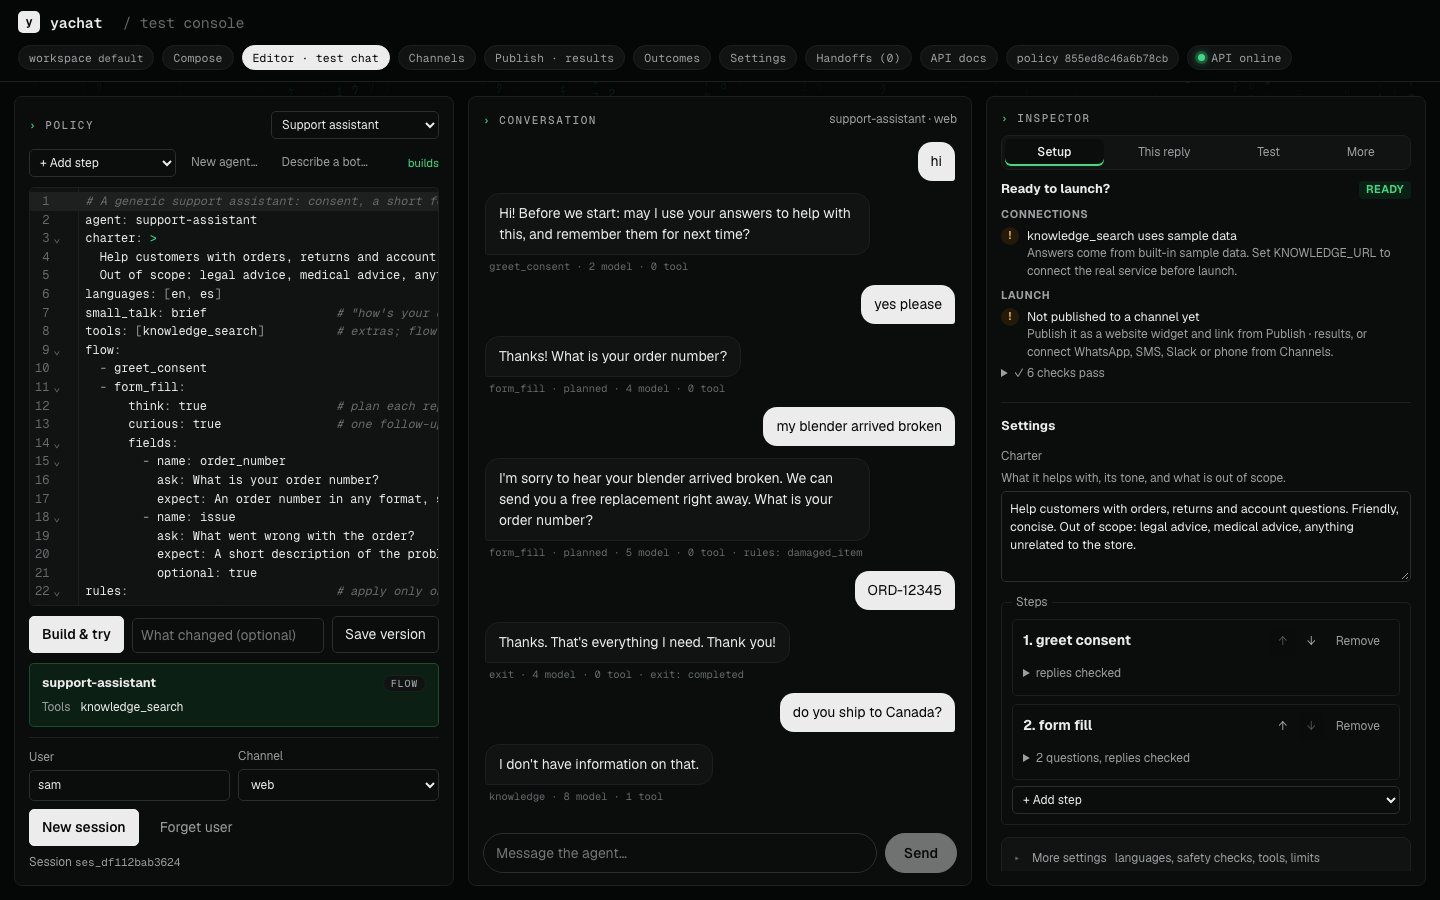
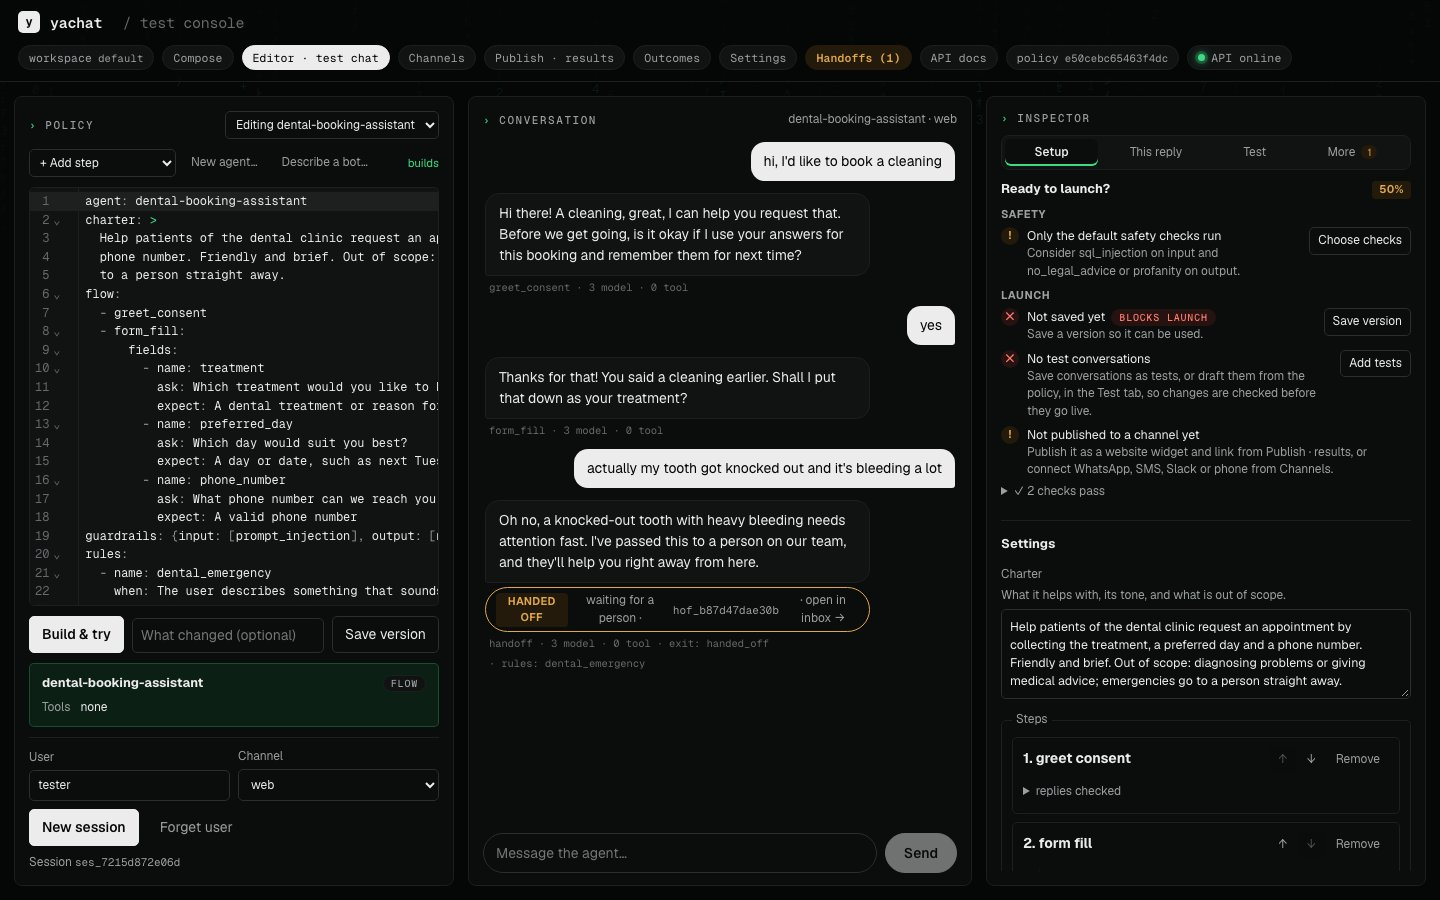
README leads with making a bot from plain English; where stronger models help
- README: a benefit tagline, a link row, an animation of the console
  (describe a dental booking bot, read it back in plain words, chat; the
  emergency rule hands the chat to a person). New sections: "Make a bot
  from plain English" (demo, console, Claude Code), "How it works" (a
  diagram of the three stages), "Where a stronger model helps" (drafting,
  judging, high_stakes steps, verifying plans, eval judging, each one
  setting), and "How yachat compares" with good fit / not a fit. Shaped
  after a review of the Parlant, Rasa, LangGraph, Botpress, CrewAI and
  Pydantic AI READMEs.
- New screenshots from the current console and demo, taken with a strong
  drafting model: compose.jpg, console.jpg (the drafted bot in a chat),
  demo-make.jpg (YAML plus what to connect), make-a-bot.gif.
- The landing page uses the same tagline and animation; FEATURES shows
  Compose and the chat.
- Fix: the plain-words summary lowers a rule's leading capital
  mid-sentence ("When the user ..."); acronyms stay.

diff --git a/site/index.html b/site/index.html
@@ -3,11 +3,11 @@
 <head>
 <meta charset="utf-8">
 <meta name="viewport" content="width=device-width, initial-scale=1, viewport-fit=cover">
-<title>yachat: chatbots you write in YAML</title>
+<title>yachat: customer-facing chatbots that follow your rules</title>
 <meta name="description" content="Open-source chatbots you write in YAML and extend in Python. One short file per bot; limits, guardrails and handoff enforced in code.">
 <meta property="og:title" content="yachat: chatbots you write in YAML">
 <meta property="og:description" content="One short YAML file per bot. Describe yours and get the file, then run it yourself.">
-<meta property="og:image" content="assets/console.jpg">
+<meta property="og:image" content="assets/compose.jpg">
 <style>
   :root { --bg: #ffffff; --fg: #1f1f1d; --muted: #6e6e69; --line: #e6e5e0; --soft: #f4f4f1; --accent: #2f6f4f; color-scheme: light }
   @media (prefers-color-scheme: dark) {
@@ -61,9 +61,9 @@
   </nav>
 
   <section class="hero">
-    <h1>Chatbots you write in YAML and extend in Python.</h1>
-    <p class="lead">One short file per bot: what it's for, what it asks, its rules and when it hands over to a person. One
-      open-source runtime runs them all and enforces limits, guardrails and tool access in code, not in a prompt.</p>
+    <h1>Customer-facing chatbots that follow your rules.</h1>
+    <p class="lead">Describe a bot in plain English, or write its YAML yourself: what it's for, what it asks, its rules and when
+      it hands over to a person. One open-source runtime enforces all of it in code, not in a prompt.</p>
     <div class="ctas">
       <a class="btn solid" href="https://yachat-demo.fly.dev">Make a bot from a description</a>
       <a class="btn" href="https://github.com/pnrajan/yachat/fork">Fork on GitHub</a>
@@ -81,7 +81,7 @@
         - {name: issue, ask: "What went wrong?", expect: "A short description", optional: true}
 <span class="k">guardrails:</span> {input: [prompt_injection], output: [pii, no_legal_advice]}
 <span class="k">handoff:</span> {when: [user_request, max_reasks]}</pre>
-  <img class="shot" src="assets/console.jpg" alt="The yachat console: the policy, a test chat, and why each reply was chosen" width="1440" height="900" loading="lazy">
+  <img class="shot" src="assets/make-a-bot.gif" alt="A dental booking bot described in two sentences, read back in plain words, then a test chat where an emergency is handed to a person" width="960" height="600" loading="lazy">
 
   <section class="points">
     <div><h2>Code decides, the model phrases</h2><p>Re-asks, digressions, exits and handoff are counted by the runtime, never left to the model.</p></div>

diff --git a/tests/test_versions.py b/tests/test_versions.py
@@ -198,3 +198,17 @@ def test_the_plain_summary_lists_rules_and_small_talk() -> None:
     lines = plain_summary(build((ROOT / "examples" / "support_assistant.yaml").read_text()))
     assert "When the customer says an item arrived damaged or broken: say a free replacement can be sent" in " ".join(lines)
     assert any("small talk" in x for x in lines) and any(x.startswith("Passes the chat to you when") for x in lines)
+
+
+def test_a_rule_reads_as_one_sentence_in_the_summary() -> None:
+    """A drafted `when` often starts with a capital ("The user ..."); mid-sentence it is lowered. Acronyms stay."""
+    from yachat.policy.compiler import build
+    from yachat.policy.summary import plain_summary
+
+    rules = [
+        {"name": "urgent", "when": "The user describes an emergency.", "then": "Hand over to a person."},
+        {"name": "vip", "when": "VIP customers ask for a refund", "then": "Offer a person"},
+    ]
+    lines = plain_summary(build(edited(SUPPORT, rules=rules)))
+    assert "When the user describes an emergency: Hand over to a person." in lines
+    assert "When VIP customers ask for a refund: Offer a person." in lines

diff --git a/yachat/policy/summary.py b/yachat/policy/summary.py
@@ -69,7 +69,10 @@ def plain_summary(policy: CompiledPolicy) -> list[str]:
         items = [_words(m.name) + (" (only with permission)" if m.sensitive else "") for m in policy.memory]
         out.append("Remembers between chats: " + ", ".join(items) + ".")
     for r in [*policy.rules, *(r for s in policy.steps for r in s.rules)]:
-        out.append(f"When {r.when.rstrip('.')}: {r.then.rstrip('.')}.")
+        when = r.when.rstrip(".")
+        if when[:1].isupper() and when[1:2].islower():  # "The user ..." mid-sentence; "VIP ..." and "I ..." stay
+            when = when[0].lower() + when[1:]
+        out.append(f"When {when}: {r.then.rstrip('.')}.")
     if policy.small_talk != "off":
         out.append("Chats briefly when the customer makes small talk, then gets back to the task.")
     return out

diff --git a/README.md b/README.md
@@ -2,28 +2,54 @@
 
 # yachat
 
-**Chatbots you write in YAML and extend in Python.**
+**Customer-facing chatbots that follow your rules.**<br>
+Describe a bot in plain English or write it in YAML; one open-source runtime enforces its steps, limits and handoff in
+code, not in a prompt.
 
 [![CI](https://github.com/pnrajan/yachat/actions/workflows/ci.yml/badge.svg)](https://github.com/pnrajan/yachat/actions/workflows/ci.yml)
 [![Python 3.12+](https://img.shields.io/badge/python-3.12%2B-3776ab?logo=python&logoColor=white)](pyproject.toml)
 [![License: Apache-2.0](https://img.shields.io/badge/license-Apache--2.0-blue)](LICENSE)
-[![Status: alpha](https://img.shields.io/badge/status-alpha-orange)](CHANGELOG.md)
+[![Status: alpha](https://img.shields.io/badge/status-alpha-orange)](#status)
 
-**[Try the demo](https://yachat-demo.fly.dev)**: describe a bot and get its YAML, or chat with a ready-made one. No sign-up.
+**[Try the demo](https://yachat-demo.fly.dev)** · [Quickstart](#quickstart) · [Docs](#docs) · [Examples](examples) ·
+[How it compares](#how-yachat-compares)
 
-<img src="docs/assets/console.jpg" alt="The yachat test console: a policy on the left, a test chat in the middle, and why each reply was chosen on the right" width="900">
+<img src="docs/assets/make-a-bot.gif" alt="In the yachat console: a dental clinic's booking bot is described in two sentences, yachat writes it and reads it back in plain words, then a test chat where a patient mentions a knocked-out tooth and the bot hands the chat to a person" width="900">
 
 </div>
 
-yachat runs chatbots that have a job to finish: support triage, bookings, intake forms, surveys. You describe each bot
-in one short YAML file. One runtime runs them all, and enforces limits, guardrails and tool access in code, not in a
-prompt.
+yachat is for bots that have a job to finish: support triage, bookings, intake forms, surveys. Each bot is one short
+YAML file that says what it is for, what it asks, which tools it may use and when it must hand over to a person. You
+can write that file yourself, or describe the bot in a sentence and let a model write it; either way the runtime, not
+the model, decides what happens next.
 
-- **One file per bot.** What it is for, what it asks, which tools it may use, when it hands over to a person.
-- **Code decides, the model phrases.** Re-asks, digressions and exits are counted by the runtime.
+- **Plain English in, a reviewable file out.** Describe the bot, read back what it will do in plain words, ask for
+  changes the same way. The YAML is there when you want it.
+- **Code decides, the model phrases.** Steps validate answers; re-asks, digressions, budgets and exits are counted by
+  the runtime. A model never decides to end a conversation.
+- **Safe by default.** Every tool call goes through one gateway (allow list, timeouts, circuit breaker); input and
+  output guardrails; memory only for listed items, with consent.
 - **Extend in Python.** A tool, step, guardrail or channel is one decorated function or class, or an MCP server.
-- **Any model, any channel.** Anthropic or anything litellm reaches; web, WhatsApp, SMS, Slack and phone.
-- **Tested from the policy.** Test sets are generated from the YAML, and a stronger model reviews trial chats.
+- **Any model, any channel.** Anthropic or anything litellm reaches (OpenAI, Gemini, Bedrock, Ollama); web widget,
+  WhatsApp, SMS, Slack and phone.
+- **Tested from the policy.** Test sets are generated from the YAML, and a stronger model reviews trial chats and
+  proposes fixes.
+
+## Make a bot from plain English
+
+**In the [demo](https://yachat-demo.fly.dev)**, no install: describe a bot and get its YAML, checked by the build.
+Under it, what the bot needs connecting before real people use it, with options for each: the services its YAML
+uses, and the outside systems your description implies (a booking calendar, a CRM, an SMS gateway). Then fork the
+repo and run it.
+
+**In the console** (after the [Quickstart](#quickstart)), open **Compose**, describe the bot, and press **Create my
+bot**. It reads the bot back in plain words; ask for changes the same way ("also ask for their email", "add Spanish"),
+press **Try it** to chat, and **Save** when it's right.
+
+**From Claude Code**, the [yachat plugin](plugins/yachat) builds, tries and saves bots on your server when you ask in
+plain words. See [Use with Claude](docs/FEATURES.md#use-with-claude).
+
+<p align="center"><img src="docs/assets/demo-make.jpg" alt="The demo: a dental booking bot described in one sentence, its YAML with Copy and Download, and what it needs connecting: a booking calendar (Open Dental, Dentrix, Calendly), a model key, somewhere for handed-over chats, and where people talk to it" width="560"></p>
 
 ## Quickstart
 
@@ -33,11 +59,11 @@ Needs Python 3.12+, [uv](https://docs.astral.sh/uv/), Node 20+ and one model key
 git clone https://github.com/pnrajan/yachat && cd yachat
 cp .env.example .env        # set YACHAT_LLM and its *_API_KEY
 uv sync --all-extras
-scripts/try.sh              # console with a sample bot, everything in memory
+scripts/try.sh              # the console with a sample bot, everything in memory
 ```
 
-In the console, pick **Support assistant**, press **Build & try**, then **New session**, and chat. Or open **Compose**
-and describe the bot you want in plain words.
+Open **Compose** and describe a bot, or pick **Support assistant**, press **Build & try**, then **New session**, and
+chat. The **Inspector** shows why each reply was chosen.
 
 ## Your first bot
 
@@ -70,9 +96,23 @@ uv run yachat build my_bot.yaml   # validate and compile; errors name the YAML p
 
 To chat with it, paste it into the console's editor and press **Build & try**, or send it to the API with
 `POST /v1/agents` ([walkthrough](docs/DEVELOPER_GUIDE.md#one-conversation-end-to-end)).
-
-[The policy language](docs/POLICY_LANGUAGE.md) lists every key. [Examples](examples) has bots for bookings, surveys,
+[The policy language](docs/POLICY_LANGUAGE.md) lists every key; [examples](examples) has bots for bookings, surveys,
 hiring and data questions.
+
+## How it works
+
+Every message goes through three stages. The model reads and phrases; the decisions in between are code.
+
+```mermaid
+flowchart LR
+  U[User message] --> A["Understand<br>language, intent, input guardrails"]
+  A --> B["Decide<br>the policy's current step, rules,<br>counters, tool gateway"]
+  B --> C["Respond<br>phrase the reply, check it,<br>output guardrails, channel limits"]
+  C --> R[Reply]
+```
+
+Each conversation is pinned to the compiled policy it started on, so a change never alters a chat in progress.
+[Architecture](docs/ARCHITECTURE.md) has the detail.
 
 ## Add a tool
 
@@ -96,7 +136,38 @@ uv run yachat evals generate my_bot.yaml           # a test set from the policy,
 uv run yachat evals check evals/support_assistant  # the checks every conversation must pass
 ```
 
-In the console, **Test → Judge** has a stronger model (`YACHAT_MODEL_CRITIC`) review a chat and propose fixes.
+In the console, **Test → Judge** has a stronger model review a chat and propose fixes to the policy or the code.
+
+## Where a stronger model helps
+
+yachat runs well on a small, cheap model for everyday turns. A stronger model pays off in a few places, and each is
+one setting:
+
+| Job | Why a stronger model helps | Setting |
+|---|---|---|
+| Writing a bot from English | Cleaner YAML on the first try, fewer build repairs, sharper suggestions for what to connect | `YACHAT_MODEL_GENERATE` |
+| Reviewing trial chats | Spots what went wrong on which turn and proposes policy and code fixes | `YACHAT_MODEL_CRITIC` |
+| Hard or risky steps | A step or rule marked `high_stakes: true` is written with the large model and always checked | the policy |
+| Checking plans before replying | Steps with `think: true` plan first; a separate model can check the plan | `YACHAT_MODEL_VERIFY` |
+| Judging test results | Scores scope and rule-following in evals | `EVALS_JUDGE_MODEL` |
+
+Classification and routine replies stay on `YACHAT_MODEL_CLASSIFY`. [Model routing and cost](docs/REFERENCE.md) has
+the detail.
+
+## How yachat compares
+
+| | **yachat** | **Parlant** | **Rasa** | **LangGraph** | **Botpress** |
+|---|---|---|---|---|---|
+| You write | One YAML file per bot, or plain English | Python guidelines and journeys | YAML flows and Python actions | Python graph code | Visual flows |
+| Who decides the next step | Code, from the policy | The model, steered by matched guidelines | Code flows | Your code | Flows plus model nodes |
+| Limits, guardrails, handoff | Built in, counted in code | Built in | Built in | You build them | Platform features |
+| Open source | Apache-2.0 | Apache-2.0 | Pro is commercial; open source is in maintenance | MIT | Hosted; SDK is MIT |
+| Maturity | Alpha | Active | Mature | Mature | Mature |
+
+**A good fit** when a bot has a job to finish (a form, a booking, triage, a survey), its behaviour should live in a
+file people can review, and you want many bots on one self-hosted runtime. **Not a fit** for a free-form assistant,
+multi-agent research workflows, or if you need stable APIs today. [How yachat compares](docs/COMPARISON.md) has the
+detail and sources.
 
 ## Docs
 
@@ -104,17 +175,18 @@ In the console, **Test → Judge** has a stronger model (`YACHAT_MODEL_CRITIC`) 
 |---|---|
 | write and tune a bot | [Writing an agent](docs/WRITING_AN_AGENT.md) |
 | look up a policy key | [The policy language](docs/POLICY_LANGUAGE.md) |
-| use the console, channels, memory, handoff, documents | [Features](docs/FEATURES.md) |
+| use the console, channels, memory, handoff, documents, Claude | [Features](docs/FEATURES.md) |
 | add a tool, step, guardrail or channel | [Adding a capability](docs/ADDING_A_CAPABILITY.md) |
 | test and measure quality | [Evals](docs/EVALS.md) |
 | look up the CLI, API, settings, deployment | [Reference](docs/REFERENCE.md) |
-| compare with Rasa, Parlant, LangGraph, Botpress | [Comparison](docs/COMPARISON.md) |
+| understand the runtime | [Architecture](docs/ARCHITECTURE.md) |
 
 ## Help and contributing
 
-Questions go to [Discussions](https://github.com/pnrajan/yachat/discussions), bugs to
+Questions and bots to show go to [Discussions](https://github.com/pnrajan/yachat/discussions), bugs to
 [issues](https://github.com/pnrajan/yachat/issues/new/choose), vulnerabilities to [SECURITY.md](SECURITY.md).
 Contributions are welcome: see [CONTRIBUTING.md](CONTRIBUTING.md) and the [code of conduct](CODE_OF_CONDUCT.md).
+If yachat is useful to you, a star helps others find it.
 
 ## Status
 

diff --git a/docs/FEATURES.md b/docs/FEATURES.md
@@ -17,6 +17,13 @@ The features behind a policy, with the YAML that turns each one on. Start with t
 
 `frontend/` is a React console for building and testing bots, served at `/console/` once built.
 
+<p align="center"><img src="assets/compose.jpg" alt="Compose: a dental clinic's booking bot written from two sentences, read back in plain words (what it asks, when it hands an emergency to a person), with Try it, Save, and a box to ask for changes" width="900"></p>
+
+Drafting a bot from a description is the job where a stronger model shows most: set `YACHAT_MODEL_GENERATE` to one for
+cleaner YAML on the first try. The README lists [where else it helps](../README.md#where-a-stronger-model-helps).
+
+<p align="center"><img src="assets/console.jpg" alt="The console after Try it: the drafted YAML, a test chat where a knocked-out tooth is handed to a person by the emergency rule, and the launch checklist" width="900"></p>
+
 | Tab | What you do there |
 |---|---|
 | **Compose** | Make a bot in two steps, without YAML: say what it should do (or pick an example or a ready-made bot), then read what it will do in plain words and ask for any change ("also ask for their email"); each change is listed before you apply it. **Try it** opens the test chat. **Fine-tune** (folded) has cards for steps and questions, safety, rules, handoff, memory, small talk and how carefully each step replies; **Show YAML** (folded) has the file. |

diff --git a/CHANGELOG.md b/CHANGELOG.md
@@ -44,6 +44,8 @@ Format: [Keep a Changelog](https://keepachangelog.com/en/1.1.0/).
 - Eval sets: `thresholds.yaml` takes `policy:` instead of `agent:`; import from `yachat.evals`.
 
 ### Fixed
+
+- The plain-words summary reads each rule as one sentence: "When the user describes ...", not "When The user ...".
 - A session is resumed only on the build it was asked for: a different `policy_hash` starts a new conversation instead of picking up an old one on another build.
 - When the documents don't answer a question and the policy hands off on request, the reply says the user can ask for a person.
 - A handoff trigger listed twice is rejected with its path (`handoff.when`).
